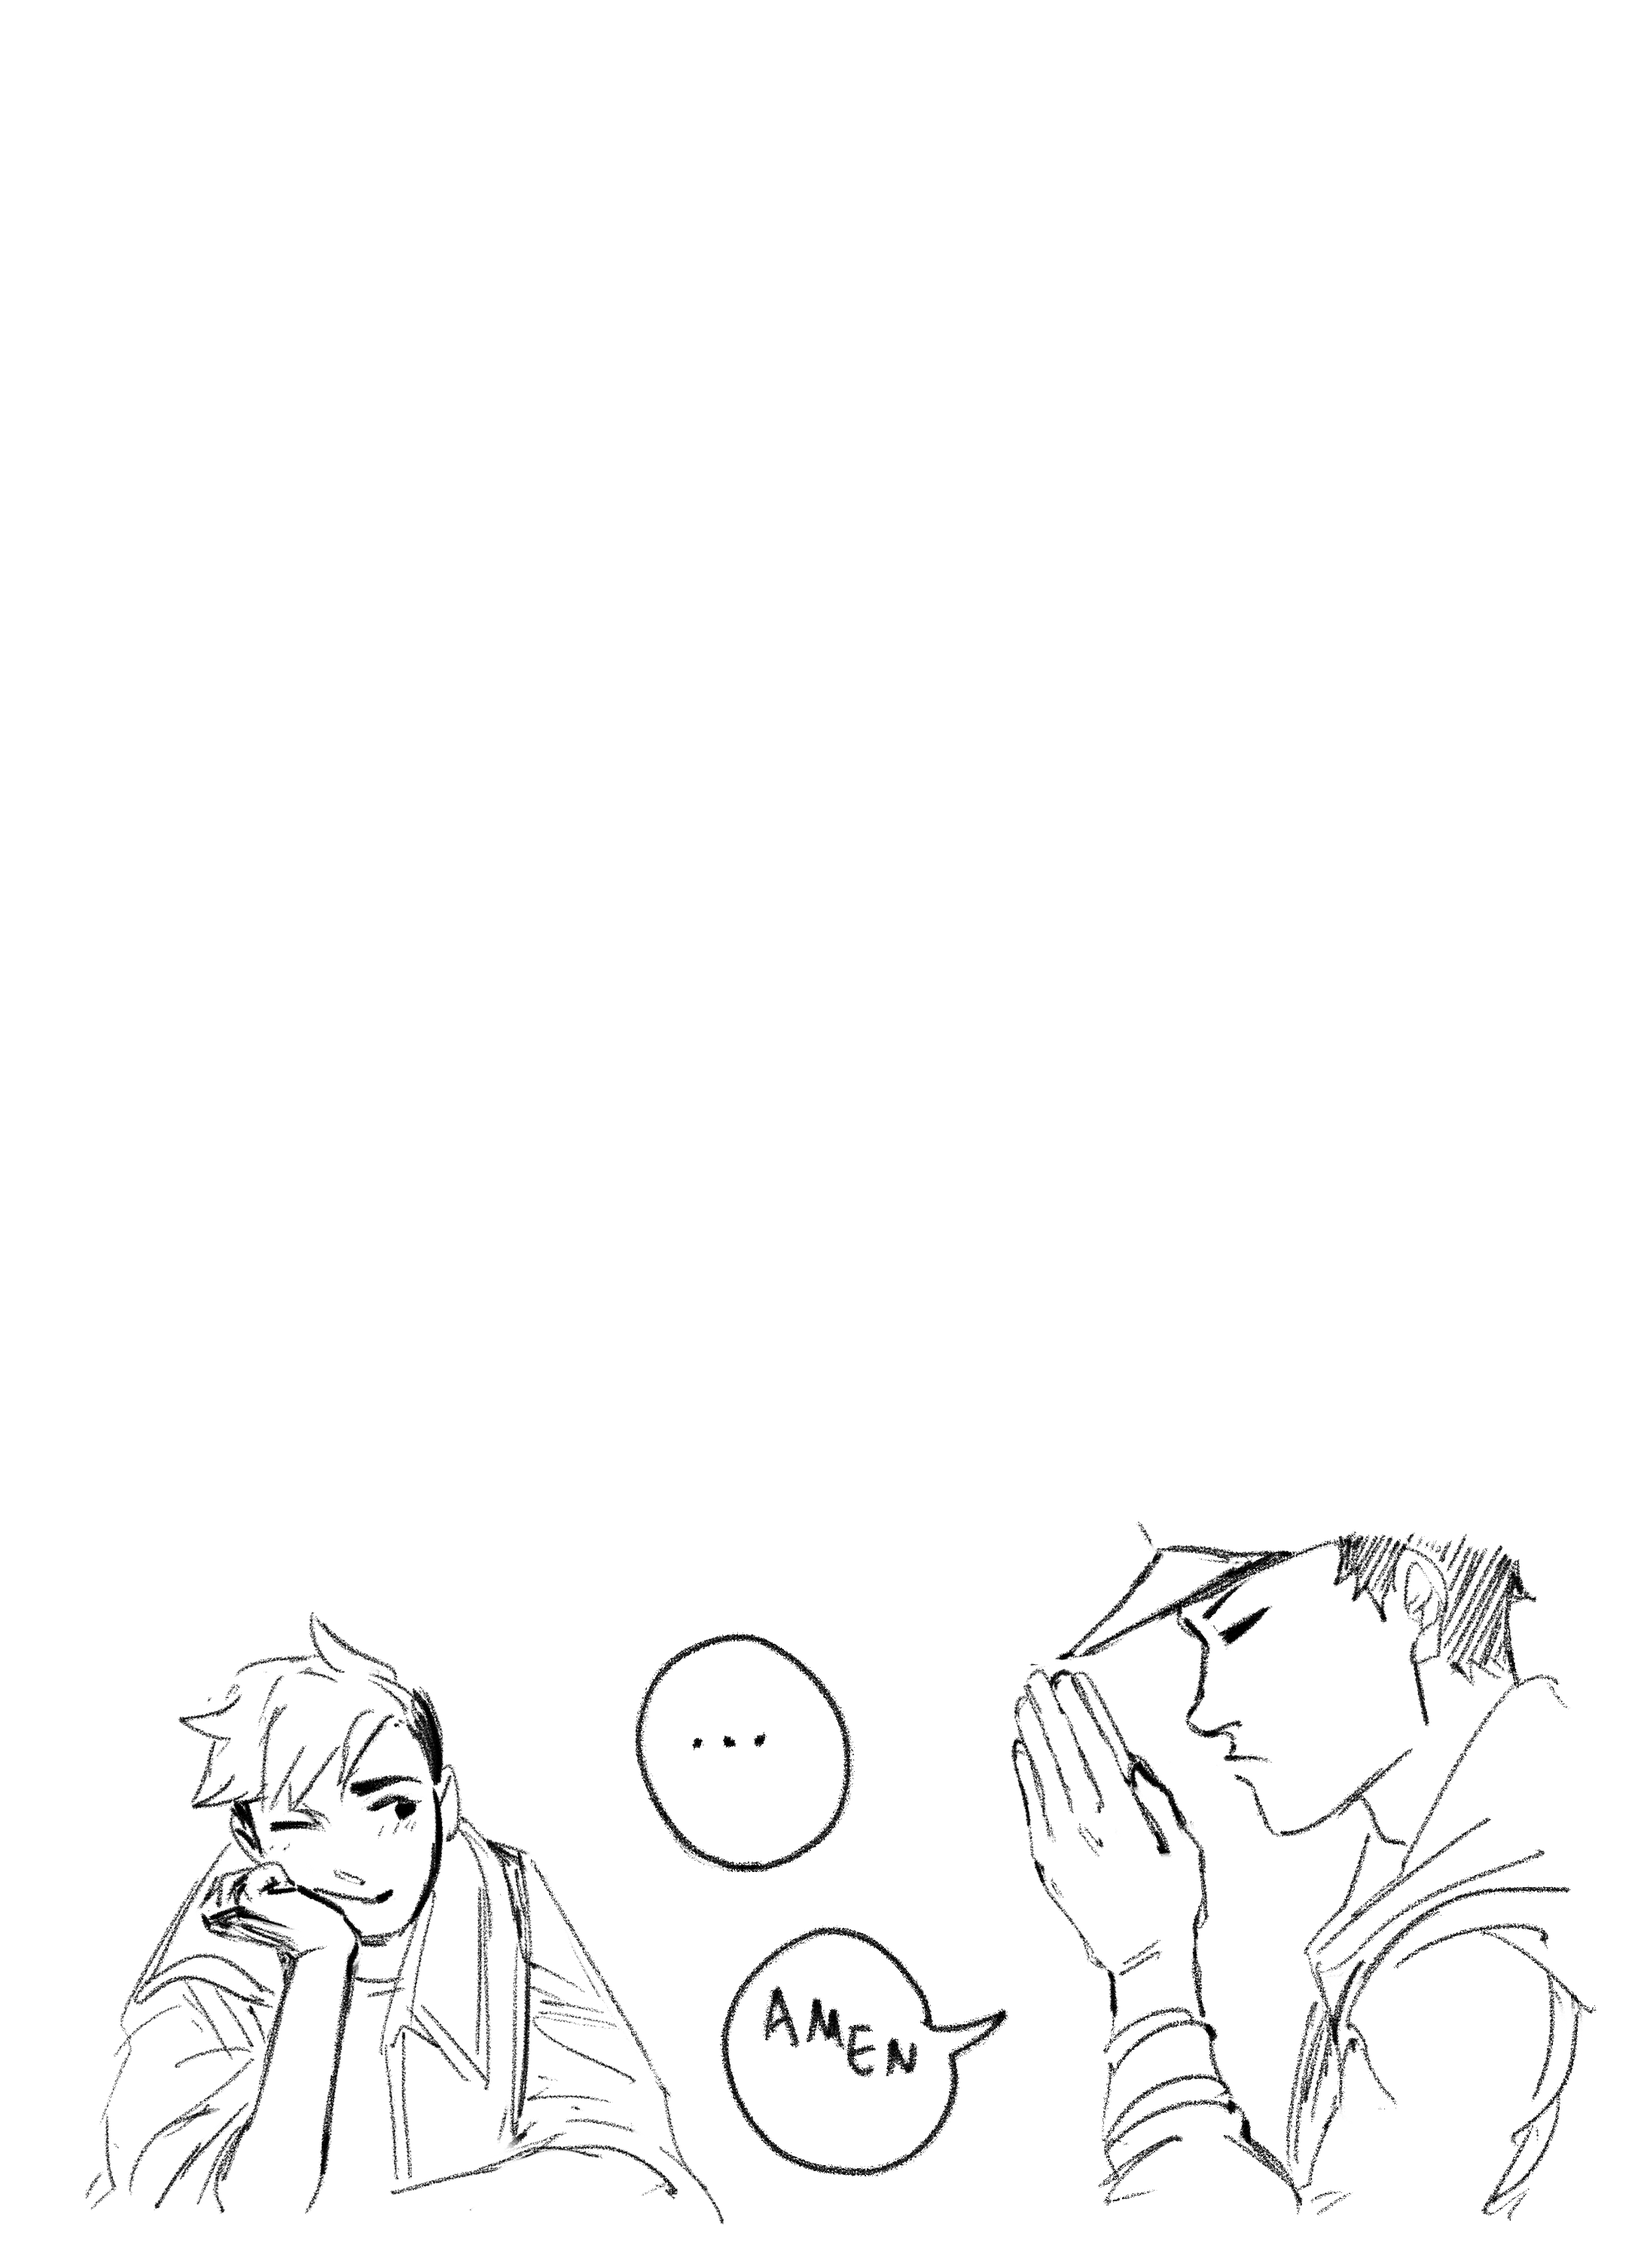
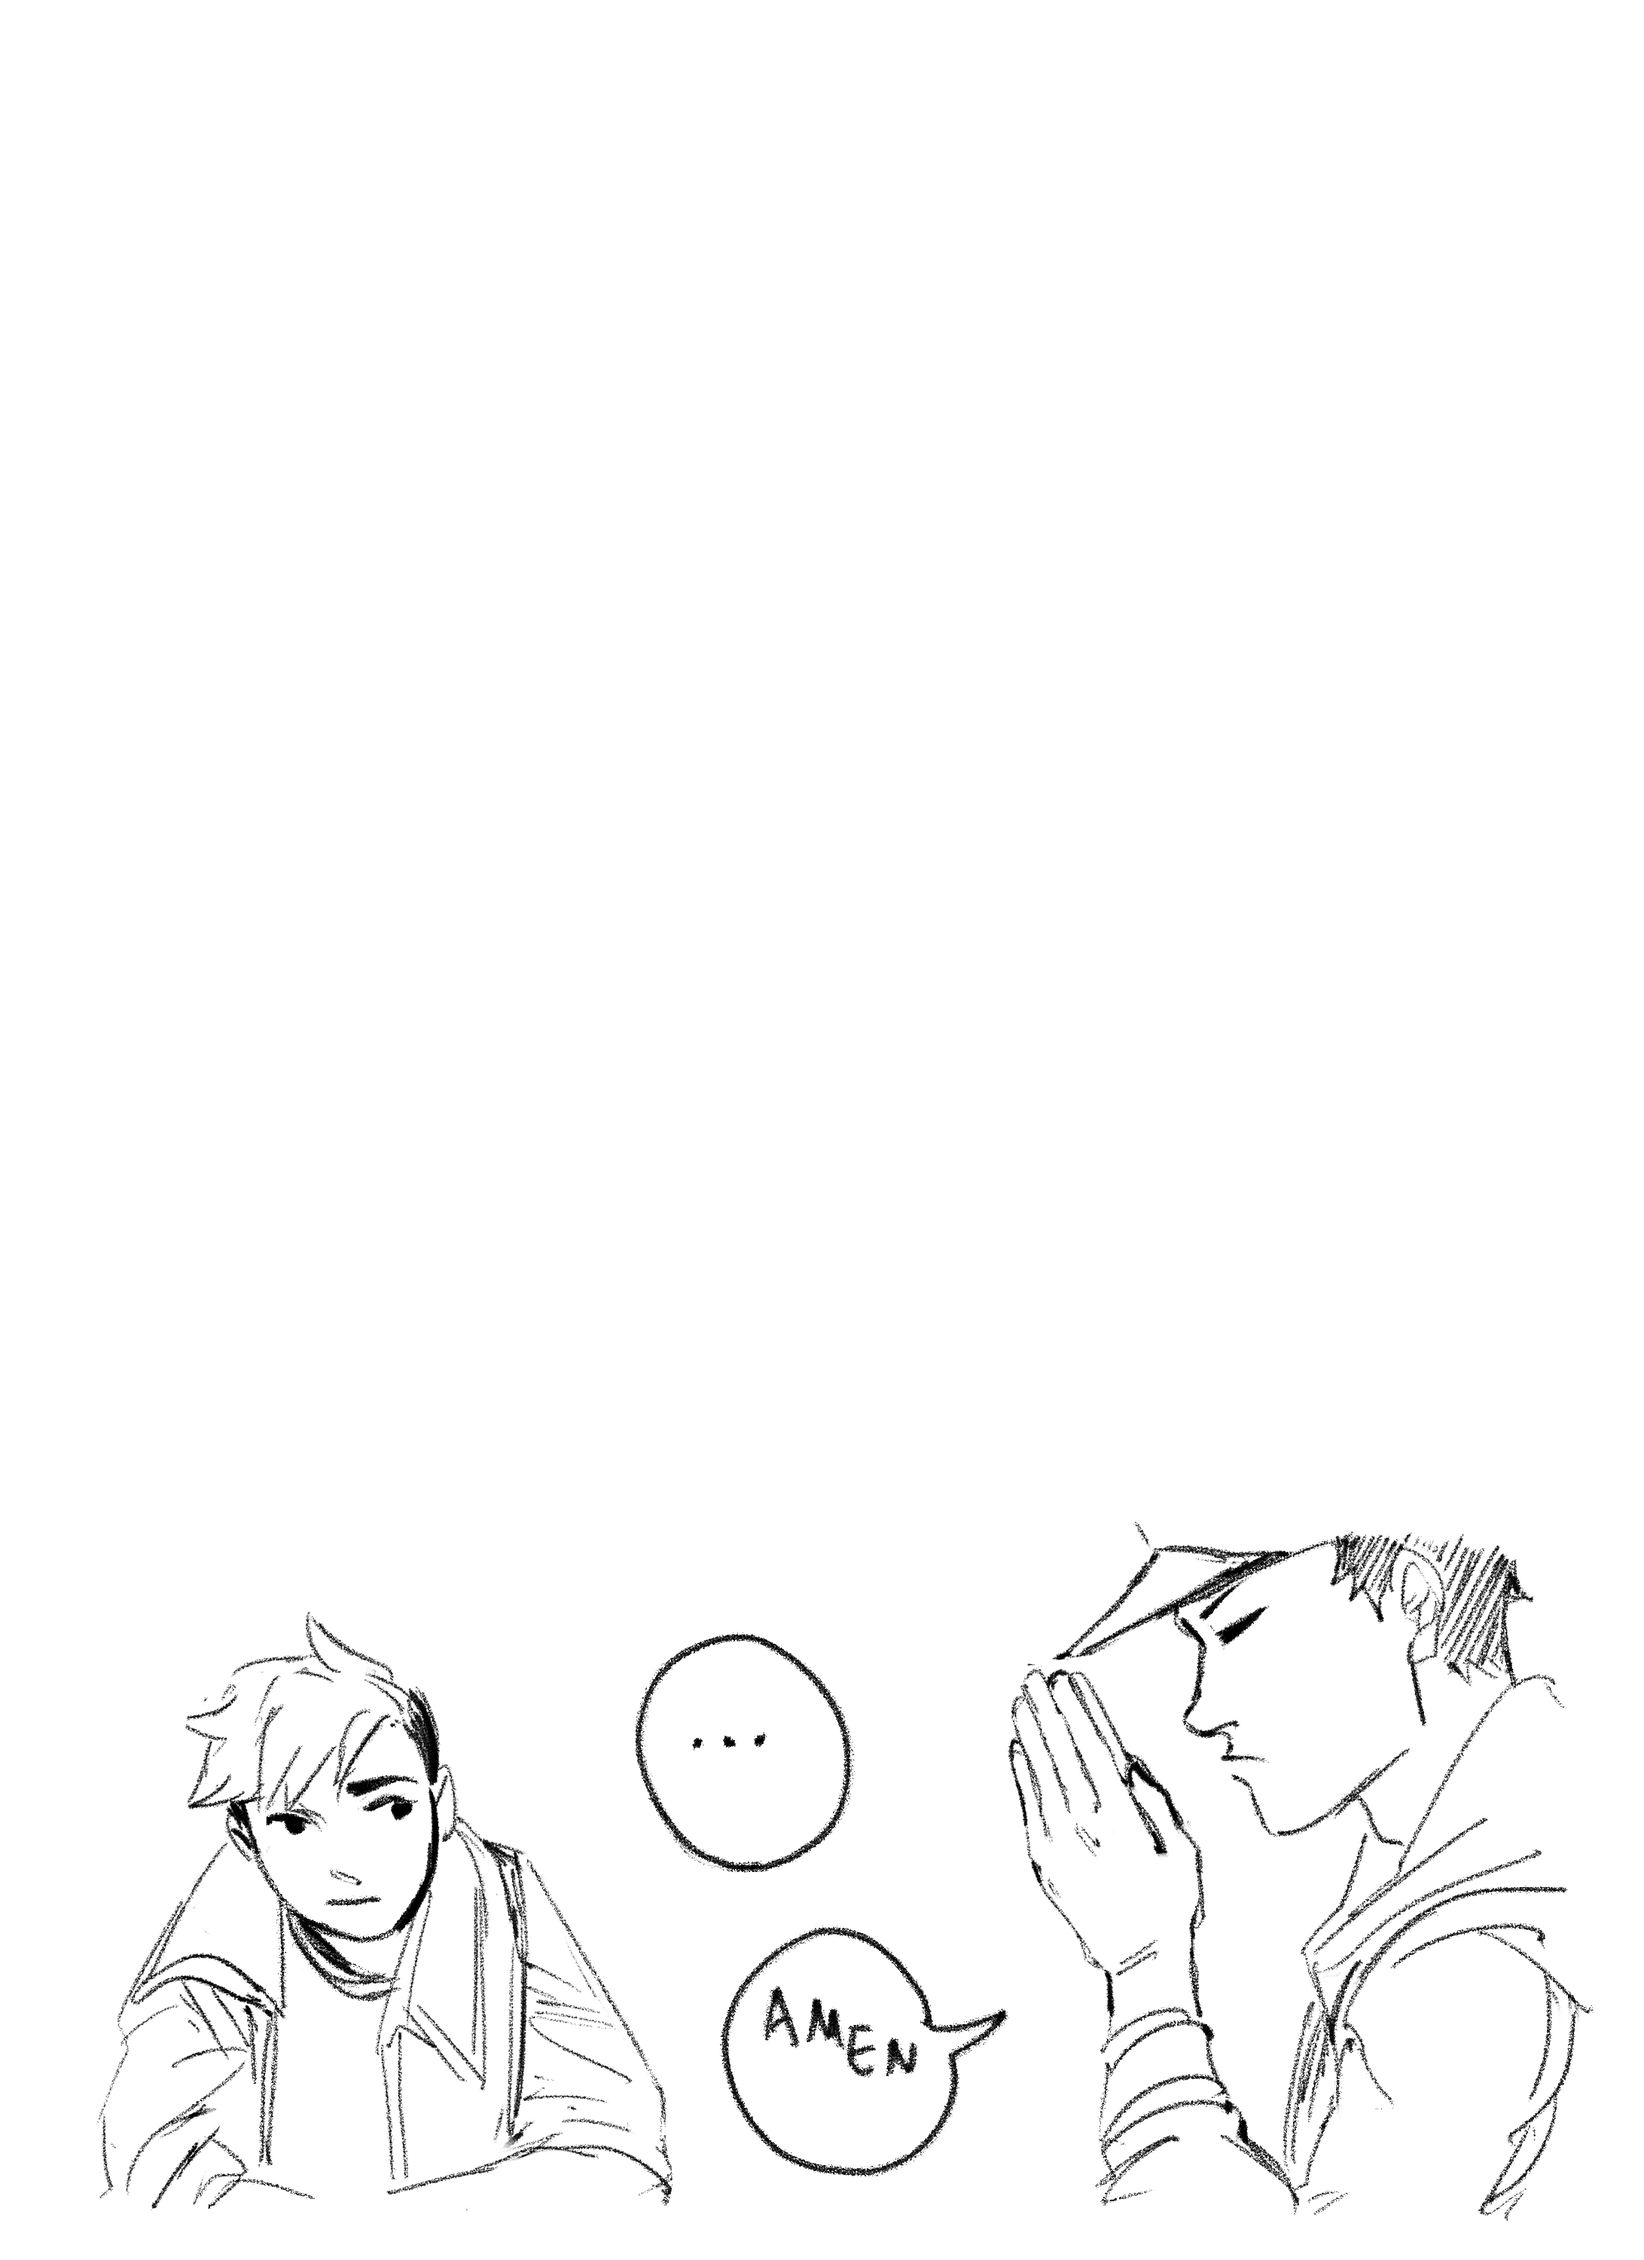
fixed pacer button swaps and replaced pg4 r3 panels

diff --git a/Assets/game/Scripts/button_animations.cs b/Assets/game/Scripts/button_animations.cs
@@ -16,9 +16,15 @@ public class button_animations : MonoBehaviour {
     tool_manager toolManager;
     bool enterOnce;
 
+    bool started;
+
+
     bool active;
+    bool plus;
 	// Use this for initialization
 	void Start () {
+        plus = true;
+        started = false;
         enterOnce = false;
         active = false;
         anim = GetComponent<Animator>();
@@ -27,6 +33,7 @@ public class button_animations : MonoBehaviour {
 	
 	// Update is called once per frame
 	void Update () {
+        started = true;
         if (tag != "pacer")
         {
             if (tag == toolManager.getTool() && name.Substring(name.Length - 1, 1) == toolManager.getActiveRow())
@@ -47,6 +54,21 @@ public class button_animations : MonoBehaviour {
         }
 	}
 
+	private void OnEnable()
+	{
+        if(tag == "pacer" && started && plus){
+            Debug.Log(name+" plus");
+            anim.SetBool("click", false);
+            anim.SetBool("enteridle", true);
+            anim.SetBool("enteractive", false);
+        } else if (tag=="pacer" && started && !plus){
+            Debug.Log(name+" not plus");
+            anim.SetBool("click", false);
+            anim.SetBool("enteridle", false);
+            anim.SetBool("enteractive", true);
+        }
+	}
+
 	private void OnMouseDown()
 	{
         /*if(tag == "pacer"){
@@ -56,13 +78,19 @@ public class button_animations : MonoBehaviour {
         {
             if (!active)
             {
+                plus = false;
                 active = true;
+                anim.SetBool("click", true);
                 anim.SetBool("enteridle", false);
                 anim.SetBool("enteractive", true);
+
             }
             else
             {
+                plus = true;
                 active = false;
+
+                anim.SetBool("click", true);
                 anim.SetBool("enteridle", true);
                 anim.SetBool("enteractive", false);
             }
